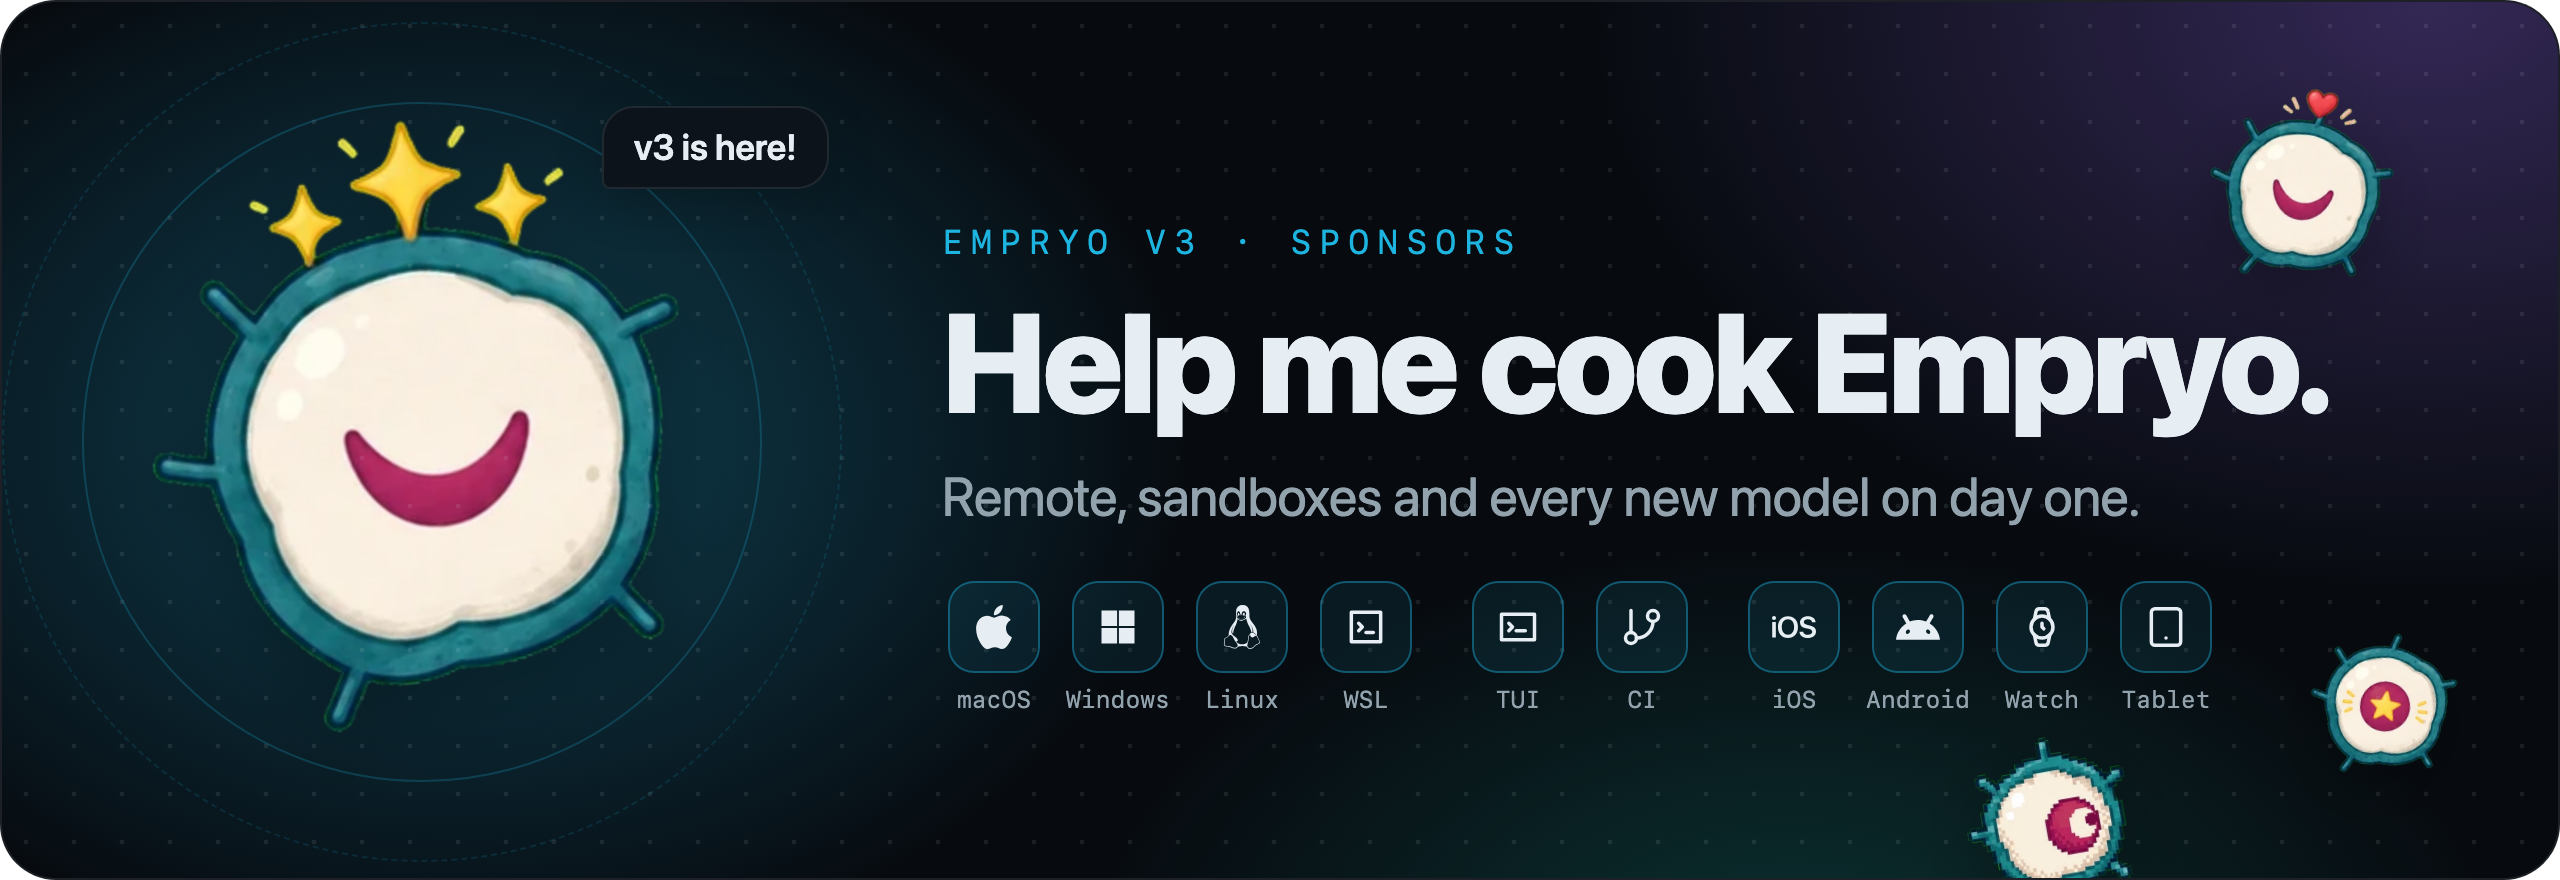
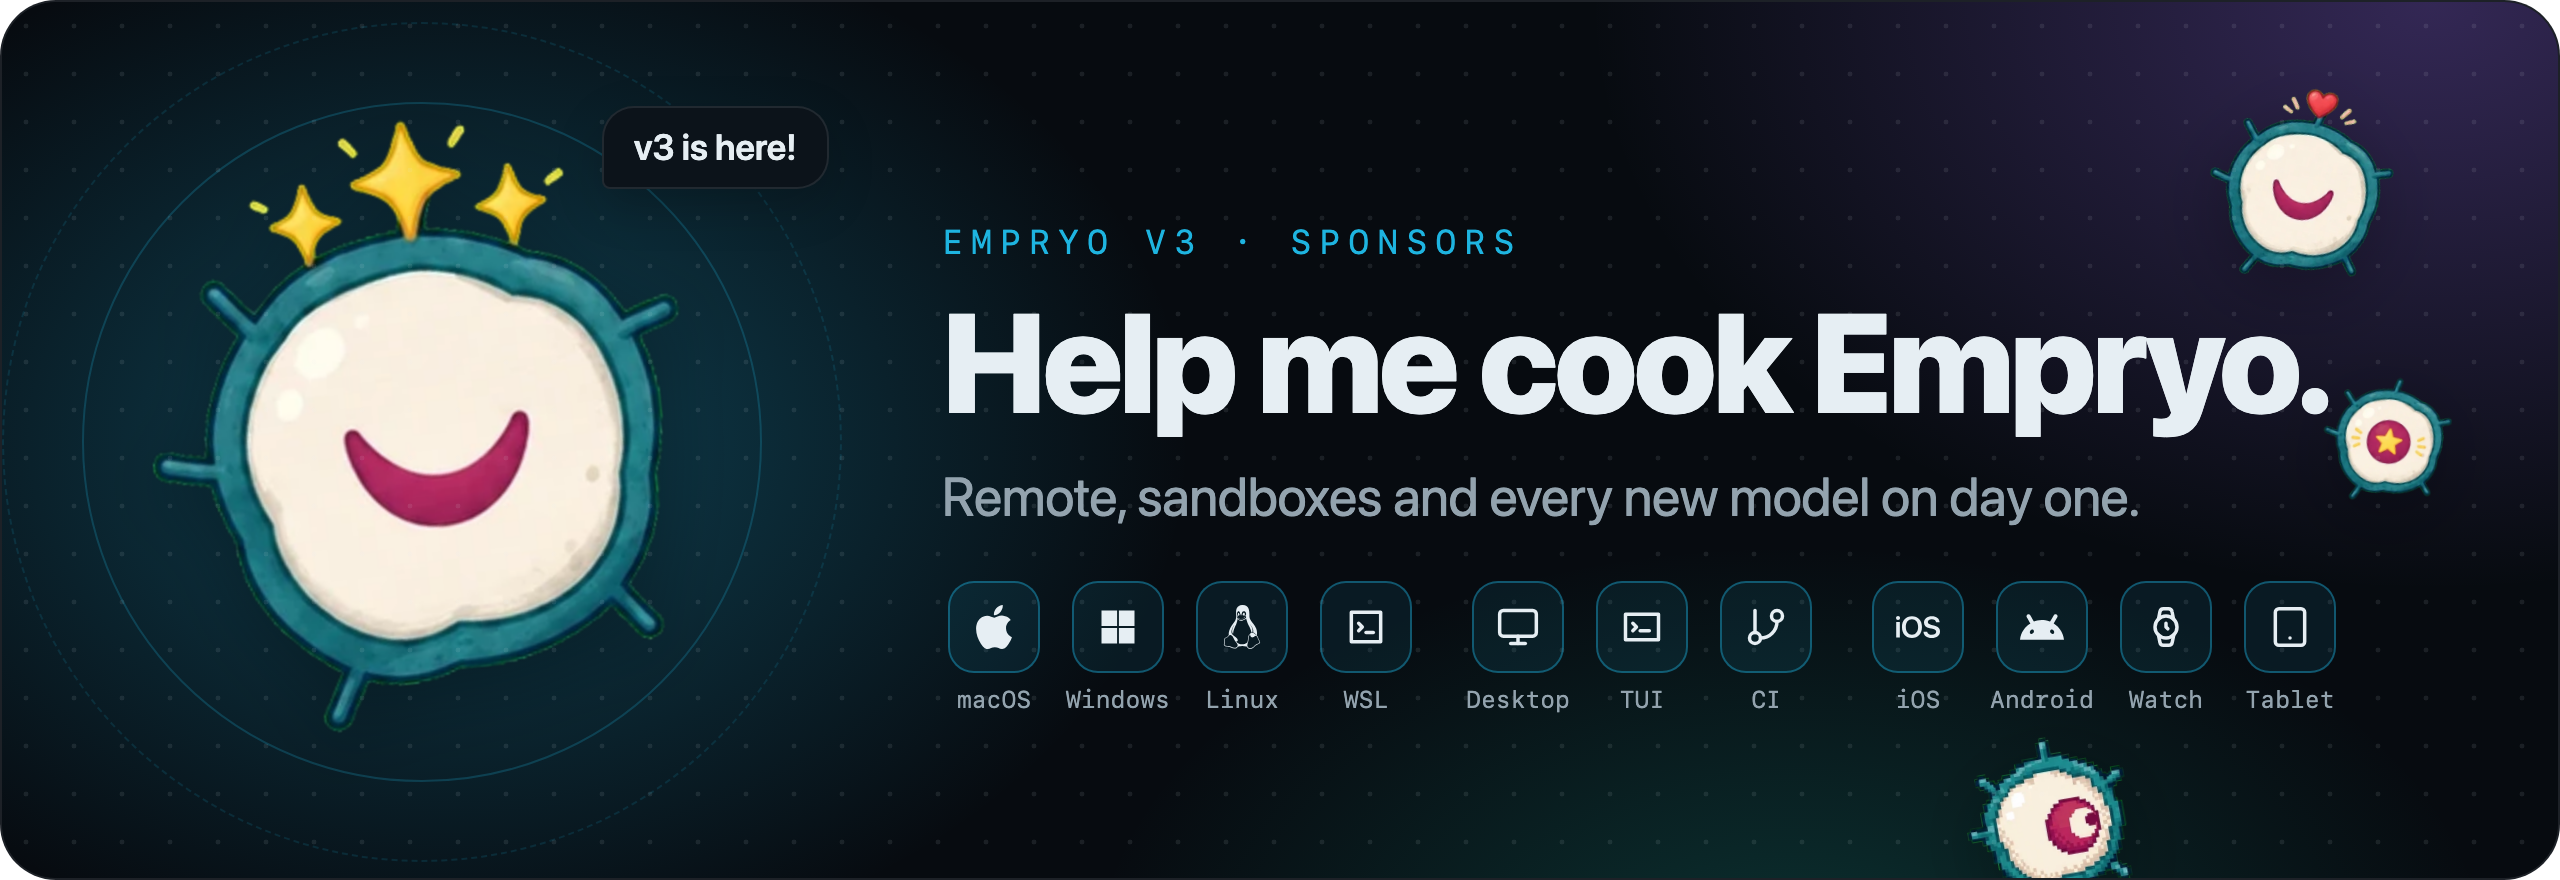
fix(readme): add the desktop app next to TUI and CI
- readme: hero platform row gets a Desktop icon
- sponsors: banner gets the same Desktop icon, star Mote moved off the labels

diff --git a/scripts/build-art.ts b/scripts/build-art.ts
@@ -35,6 +35,7 @@ const PLATFORMS: readonly Platform[] = [
   { label: "Windows", group: 0, fill: "M3 3h8.5v8.5H3zM12.5 3H21v8.5h-8.5zM3 12.5h8.5V21H3zM12.5 12.5H21V21h-8.5z" },
   { label: "Linux", group: 0, fill: BRAND.linux },
   { label: "WSL", group: 0, stroke: ["M4 4h16v16H4z", "m8 10 2 2-2 2", "M12 15h4"] },
+  { label: "Desktop", group: 1, stroke: ["M4 3h16a2 2 0 0 1 2 2v10a2 2 0 0 1-2 2H4a2 2 0 0 1-2-2V5a2 2 0 0 1 2-2z", "M8 21h8", "M12 17v4"] },
   { label: "TUI", group: 1, stroke: ["M3 5h18v14H3z", "m7 10 2 2-2 2", "M11 14h5"] },
   { label: "CI", group: 1, stroke: ["M6 3v12", "M21 6a3 3 0 1 1-6 0 3 3 0 0 1 6 0z", "M9 18a3 3 0 1 1-6 0 3 3 0 0 1 6 0z", "M18 9a9 9 0 0 1-9 9"] },
   { label: "iOS", group: 2, fill: BRAND.ios },
